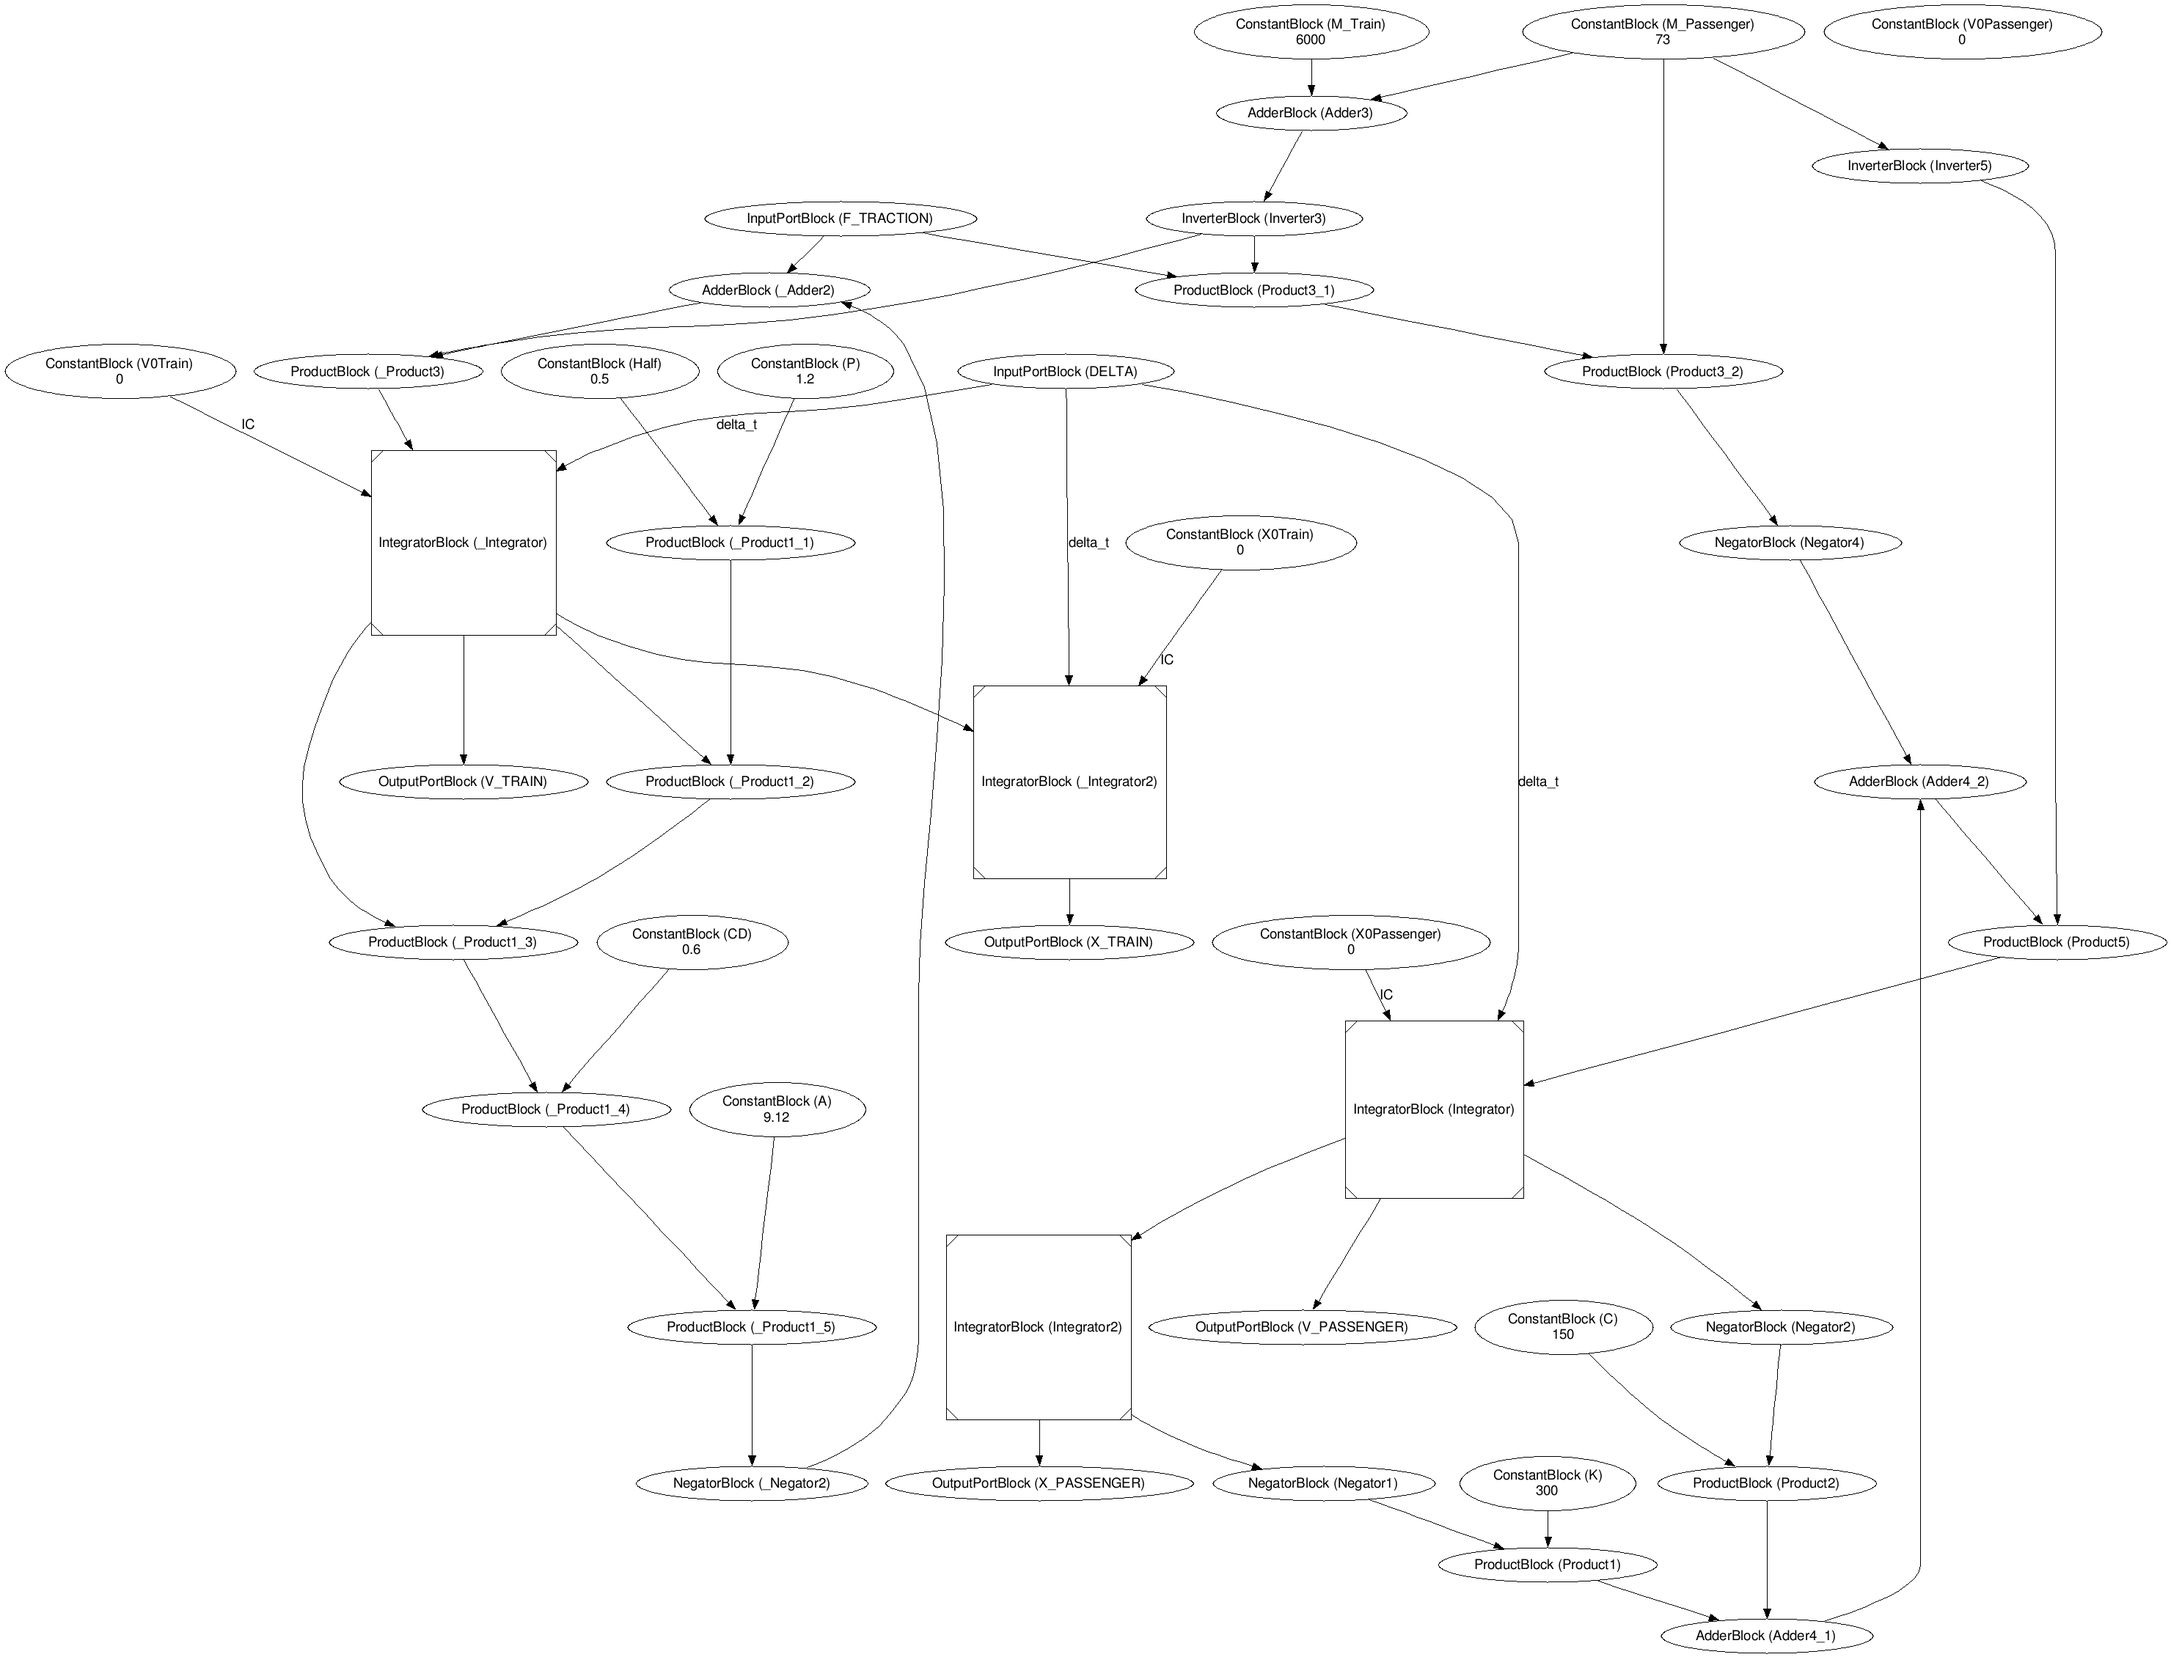
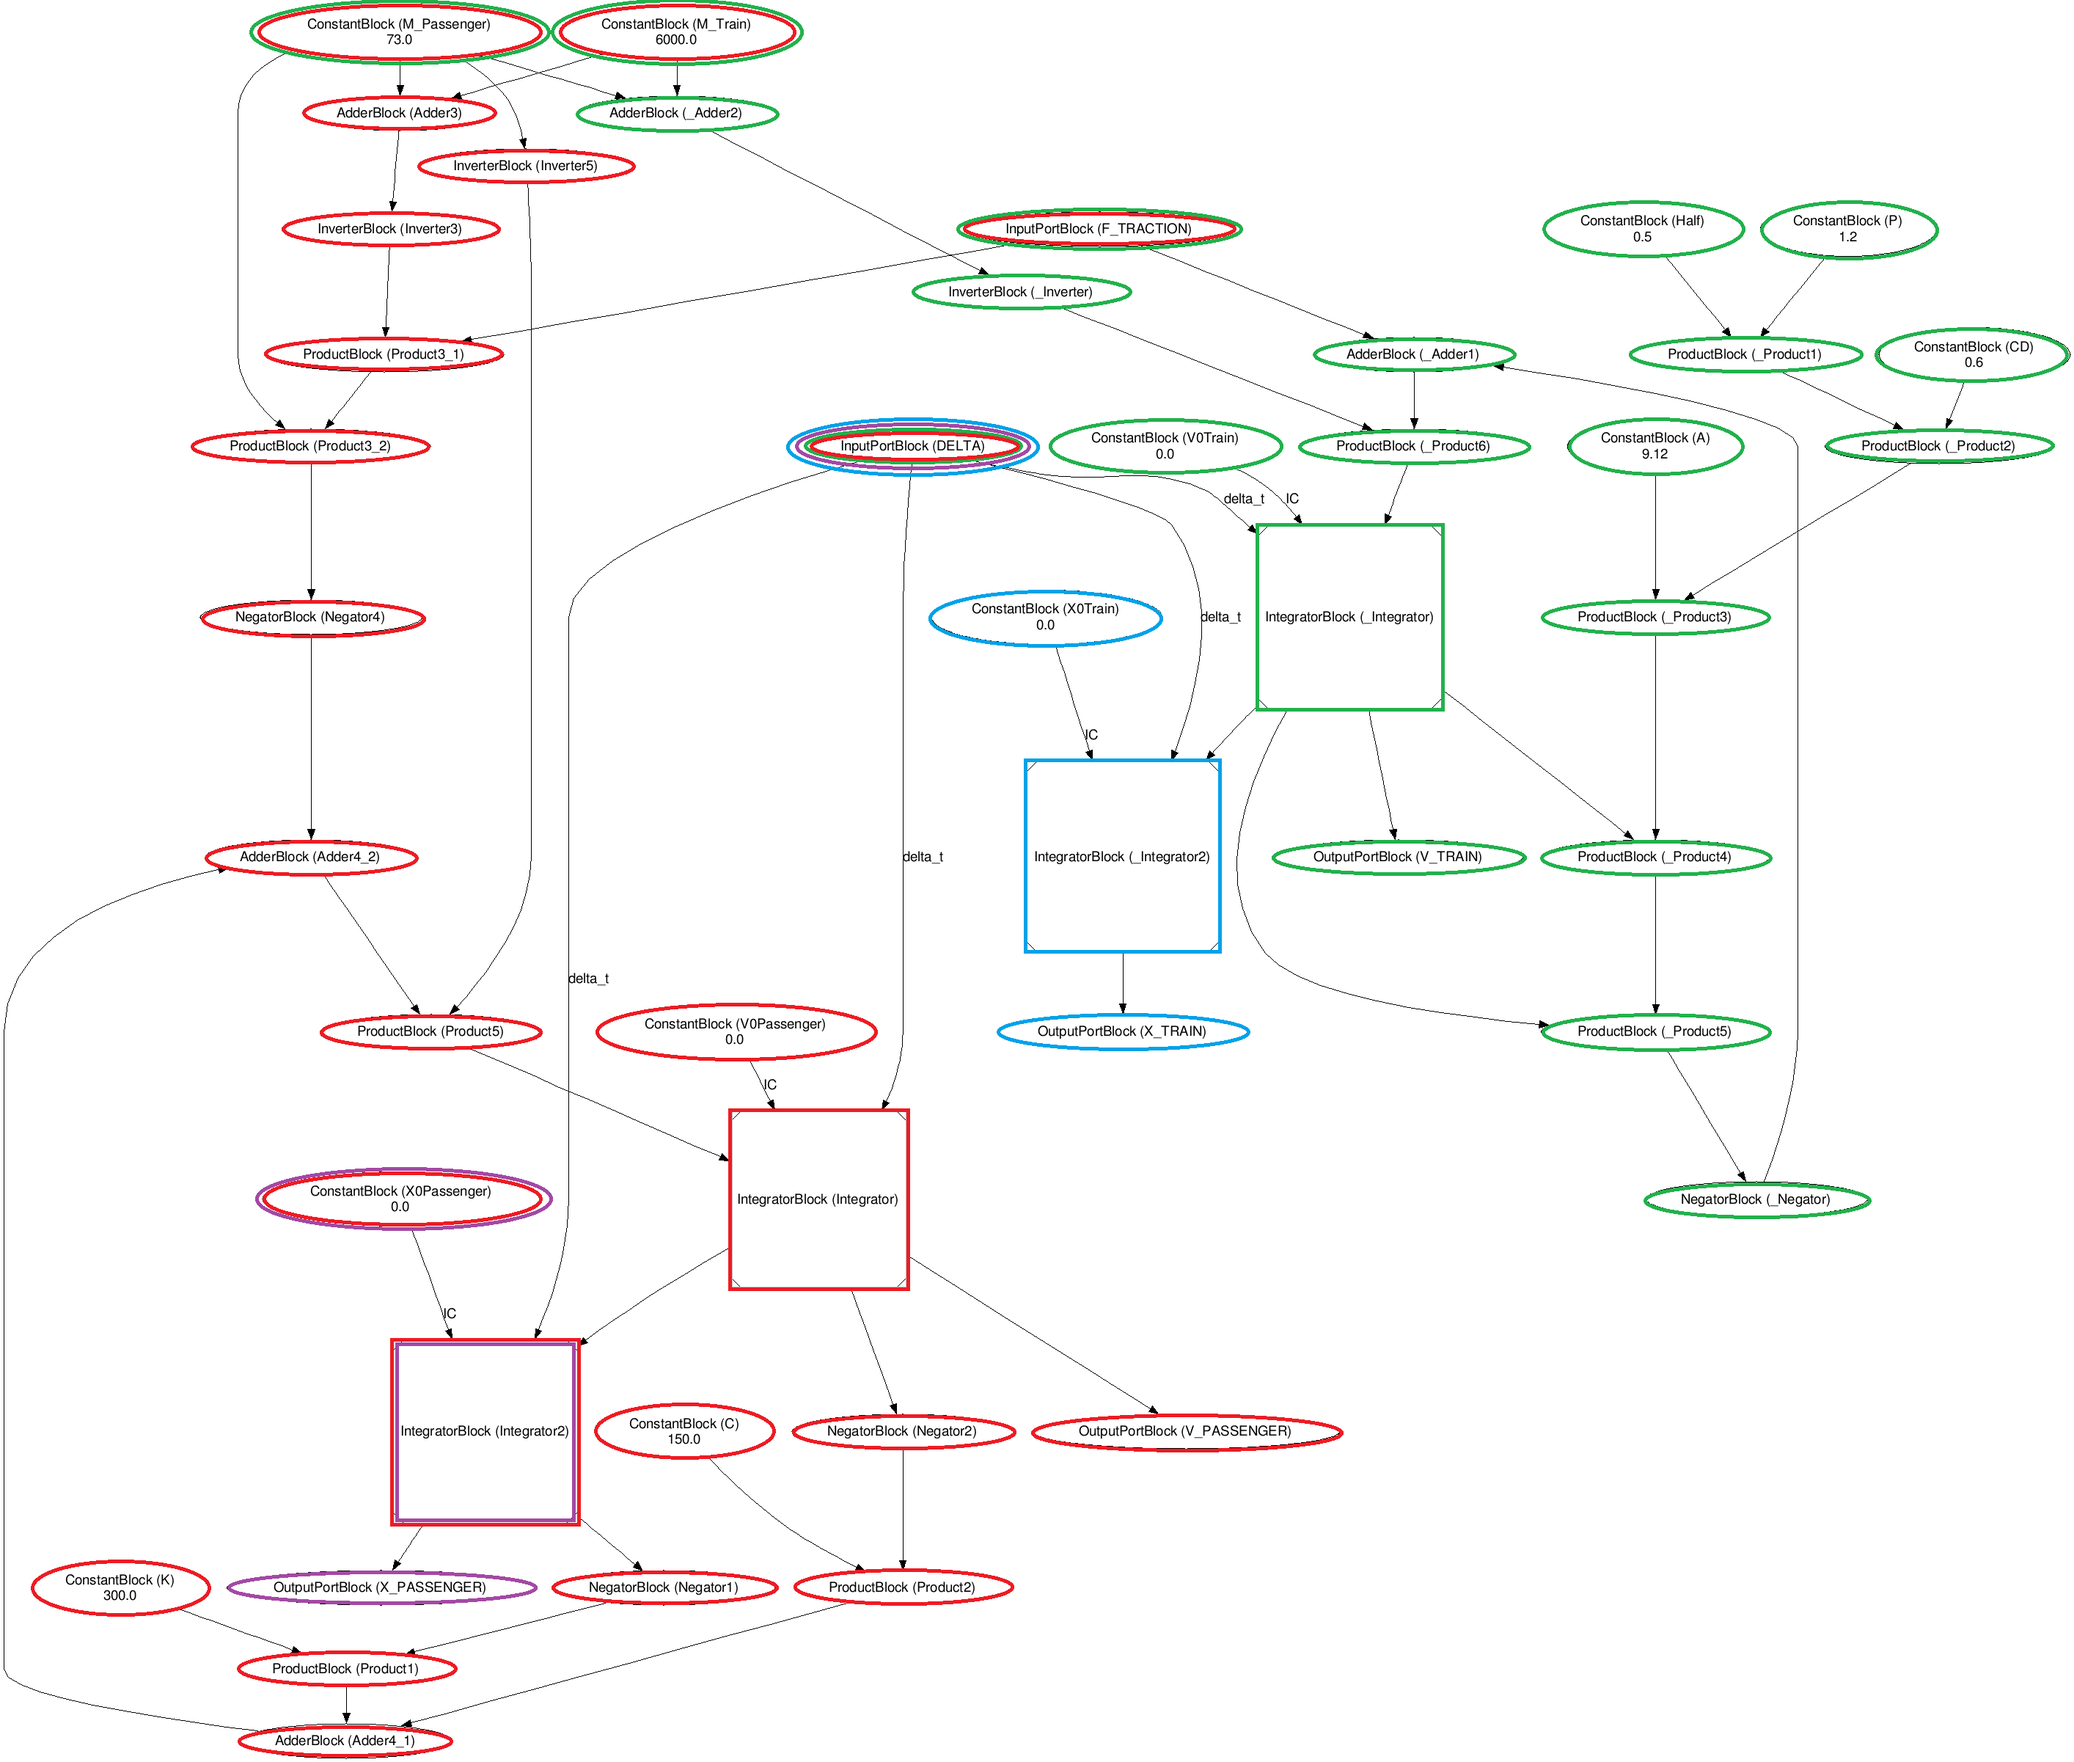
bug niet gevonden + verslag bijna af

diff --git a/3CBD Continuous/CBD/index.html b/3CBD Continuous/CBD/index.html
@@ -173,7 +173,7 @@ The second and largest task is to build and simulate all the parts of a Driver-l
 	<li>Look-up Block</li>
 	<li>PID Controller</li>
 	<li>Plant</li>
-	<li>Cost Function</li>
+	<li>Cost Function (as given in the assignment)</li>
 </ul>
 
 <h4>Time CBD And Look-up Block</h4>
@@ -184,25 +184,24 @@ The Time CBD and Look-up Block have been discussed previously and in the previou
 
 <h4>PID Controller</h4>
 
-TODO
+The PIDController is implemented the way it is described in the assignment. The three variables K<sub>p</sub>, K<sub>i</sub> and K<sub>d</sub> can be set at initialization of the PIDControllerBlock. The model of the controller is shown below.
 
 <br>
 <img src="output/PIDControllerCBD.png">
 
 <h4>Plant</h4>
 
-TODO
-
+The PlantCBD is the largest CBD of all because it entails the four equations that calculate the velocity and displacement of the train and the passenger. In the picture of this CBD you can see the nodes encircled in different colors. These represent the four equations (red is equation 1, green is equation 2, purple is equation 3 and blue is equation 4) and are to clarify which blocks (nodes) are responsible for each equation. This link will show the full PlantCBD (file is quite large so for convenience open in separate tab) <a href="output/PlantCBD.png">PlantCBD.png</a>.
 <br>
-This link will show the full PlantCBD (file is quite large so for convenience open in separate tab) <a href="output/PlantCBD.png">PlantCBD.png</a>.
-
-<h4>Cost Function</h4>
-
-The Cost Function is a special block that will calculate the cost of the current system, based on the current and ideal velocity of the train at a point t, and the displacement of the passenger at that same time t. In the next section, the use of this block will be clear as we will tune the parameters of the PIDController to find the best set of values that produce the lowest cost.
+The following plot shows the results of the execution of the complete train system with K<sub>p</sub> = 200, K<sub>i</sub> = 0 and K<sub>d</sub> = 0. As you can see this is exactly as expected.
+<br>
+<img src="output/bokeh_plot.png">
 
 <h3>Tune</h3>
 
-TODO
+This section tells how we tuned the parameters K<sub>p</sub>, K<sub>i</sub> and K<sub>d</sub> to find the optimal combination of values. In the method <i>tuneCBD()</i> of <a href="controller.py">controller.py</a> you can find this code. Sadly we encountered a problem with the calculation of X_PASSENGER (equation 3) which results in the <i>CostFunctionBlock</i> raising an StopSimulationExpection. We were unable to find and fix this problem.
+<br>
+<br>
 
 </body>
 </html>

diff --git a/3CBD Continuous/CBD/controller.py b/3CBD Continuous/CBD/controller.py
@@ -114,7 +114,7 @@ class PlantCBD(CBD):
     X_PASSENGER = displacement of the passenger
     """
     def __init__(self, block_name):
-        CBD.__init__(self, block_name, input_ports=["F_TRACTION","DELTA"], output_ports=["V_PASSENGER", "V_TRAIN", "X_PASSENGER", "X_TRAIN", "temp"])
+        CBD.__init__(self, block_name, input_ports=["F_TRACTION","DELTA"], output_ports=["V_PASSENGER", "V_TRAIN", "X_PASSENGER", "X_TRAIN"])
 
         # Constants for Integrators
         self.addBlock(ConstantBlock("X0Train", 0.0))
@@ -146,7 +146,7 @@ class PlantCBD(CBD):
 
         self.addConnection("Integrator2", "Negator1", output_port_name="OUT1")
         self.addConnection("Negator1", "Product1")
-        self.addConnection("K","Product1")
+        self.addConnection("K", "Product1")
 
         # Part2 = C * (- V_PASSENGER)
         self.addBlock(NegatorBlock("Negator2"))
@@ -196,11 +196,11 @@ class PlantCBD(CBD):
         self.addConnection("Inverter5", "Product5")
 
         # Integrator
-        self.addConnection("Product5", "Integrator")
+        self.addConnection("Product5", "Integrator", input_port_name="IN1")
         self.addConnection("V0Passenger", "Integrator", output_port_name="OUT1", input_port_name="IC")
         self.addConnection("DELTA", "Integrator", output_port_name="OUT1", input_port_name="delta_t")
 
-        self.addConnection("Integrator", "Integrator2", output_port_name="OUT1")
+        self.addConnection("Integrator", "Integrator2", output_port_name="OUT1", input_port_name="IN1")
         self.addConnection("X0Passenger", "Integrator2", output_port_name="OUT1", input_port_name="IC")
         self.addConnection("DELTA", "Integrator2", output_port_name="OUT1", input_port_name="delta_t")
 
@@ -262,7 +262,6 @@ class PlantCBD(CBD):
 
         self.addConnection("_Integrator", "V_TRAIN")
         self.addConnection("_Integrator2", "X_TRAIN")
-        self.addConnection("_Product6", "temp")
 
 class CompleteTrainSystemCBD(CBD):
     """
@@ -293,8 +292,8 @@ class CompleteTrainSystemCBD(CBD):
 
         self.addConnection("Lookup", "CostFunction", output_port_name="OUT1", input_port_name="InVi")
         self.addConnection("Plant", "CostFunction", output_port_name="V_TRAIN", input_port_name="InVTrain")
-        self.addConnection("Plant", "CostFunction", output_port_name="X_PASSENGER", input_port_name="InXPerson")
         self.addConnection("Time", "CostFunction", output_port_name="DELTA",  input_port_name="InDelta")
+        self.addConnection("Plant", "CostFunction", output_port_name="X_PASSENGER", input_port_name="InXPerson")
 
         self.addConnection("Lookup", "V_IDEAL", output_port_name="OUT1")
         self.addConnection("Plant", "V_TRAIN", output_port_name="V_TRAIN")
@@ -342,7 +341,7 @@ def plot(cbd, signalName, p=None, color="red"):
 ########
 
 def testPlant():
-    cbd = CBD("CBD", output_ports=["vtrain","vpassenger","xtrain","xpassenger","temp"])
+    cbd = CBD("CBD", output_ports=["vtrain","vpassenger","xtrain","xpassenger"])
     cbd.addBlock(PlantCBD("Plant"))
     cbd.addBlock(ConstantBlock("F_TRACTION_IN", 2))
     cbd.addBlock(ConstantBlock("DELTA_IN", 1))
@@ -354,7 +353,6 @@ def testPlant():
     cbd.addConnection("Plant", "xtrain", output_port_name="X_TRAIN")
     cbd.addConnection("Plant", "vpassenger", output_port_name="V_PASSENGER")
     cbd.addConnection("Plant", "xpassenger", output_port_name="X_PASSENGER")
-    cbd.addConnection("Plant", "temp", output_port_name="temp")
 
     cbd.run(20)
     p = plot(cbd, "vtrain")
@@ -389,7 +387,7 @@ def runCBD(triple):
     steps = 350
     cbd = CompleteTrainSystemCBD("completeTrainSystem", KP, KI, KD)
     cbd.run(steps)
-    cost = cbd.getSignal("V_IDEAL")[-1].value
+    cost = cbd.getSignal("COST")[-1].value
     return cost
 
 ################################################################################
@@ -477,7 +475,8 @@ def tuneCBD():
                 text = str(bestN) + "\n"
                 f.write(text)
 
-tuneCBD()
+# tuneCBD()
+print runCBD([200,0,0])
 # print "PlantCBD OK"
 # testTimeCBD()
 # print "TimeCBD OK"

diff --git a/3CBD Continuous/CBD/TrainCostModelBlock.py b/3CBD Continuous/CBD/TrainCostModelBlock.py
@@ -11,6 +11,7 @@ class CostFunctionBlock(BaseBlock):
     def compute(self, curIteration):
         displacement_person = self.getInputSignal(curIteration, "InXPerson").value
         velocity_train = self.getInputSignal(curIteration, "InVTrain").value
+        print curIteration, displacement_person, velocity_train
 
         if abs(displacement_person) > 0.4 or velocity_train<0.0:
             raise StopSimulationException()

diff --git a/3CBD Continuous/CBD/CBDMultipleOutput/Source/CBD.py b/3CBD Continuous/CBD/CBDMultipleOutput/Source/CBD.py
@@ -903,7 +903,7 @@ class IntegratorBlock(CBD):
     def __init__(self, block_name):
         CBD.__init__(self, block_name, ["IN1", "delta_t", "IC"], ["OUT1"])
         # TO IMPLEMENT
-        self.addBlock(ConstantBlock("Zero", 0))
+        self.addBlock(ConstantBlock("Zero", 0.0))
         self.addBlock(ProductBlock("Product"))
         self.addBlock(NegatorBlock("Negator"))
         self.addBlock(DelayBlock("Delay1"))
